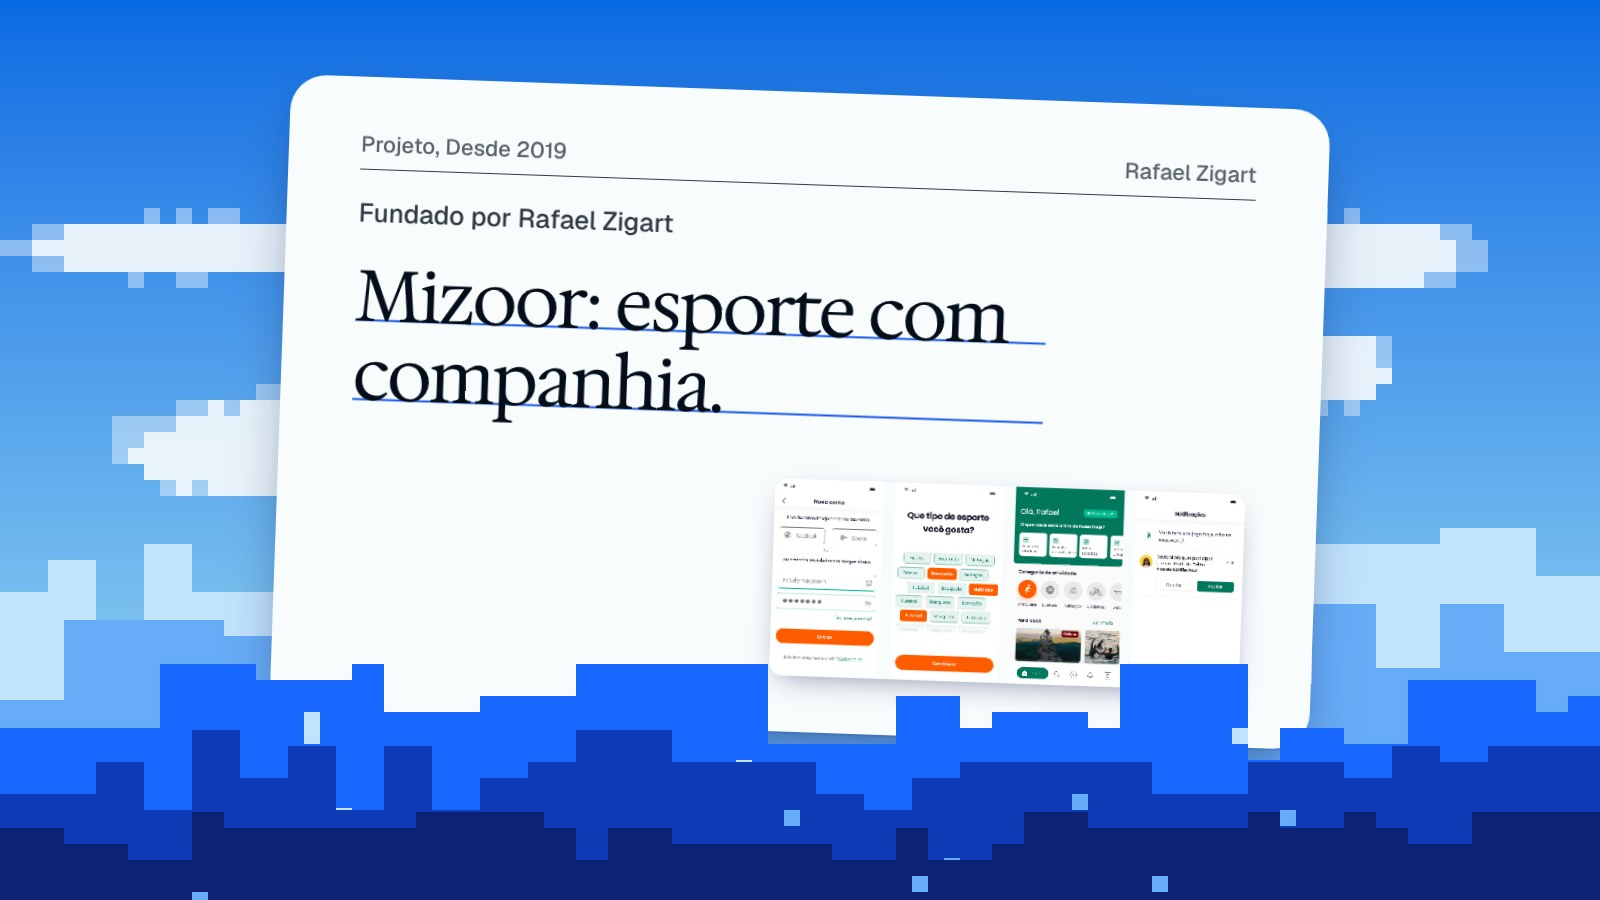
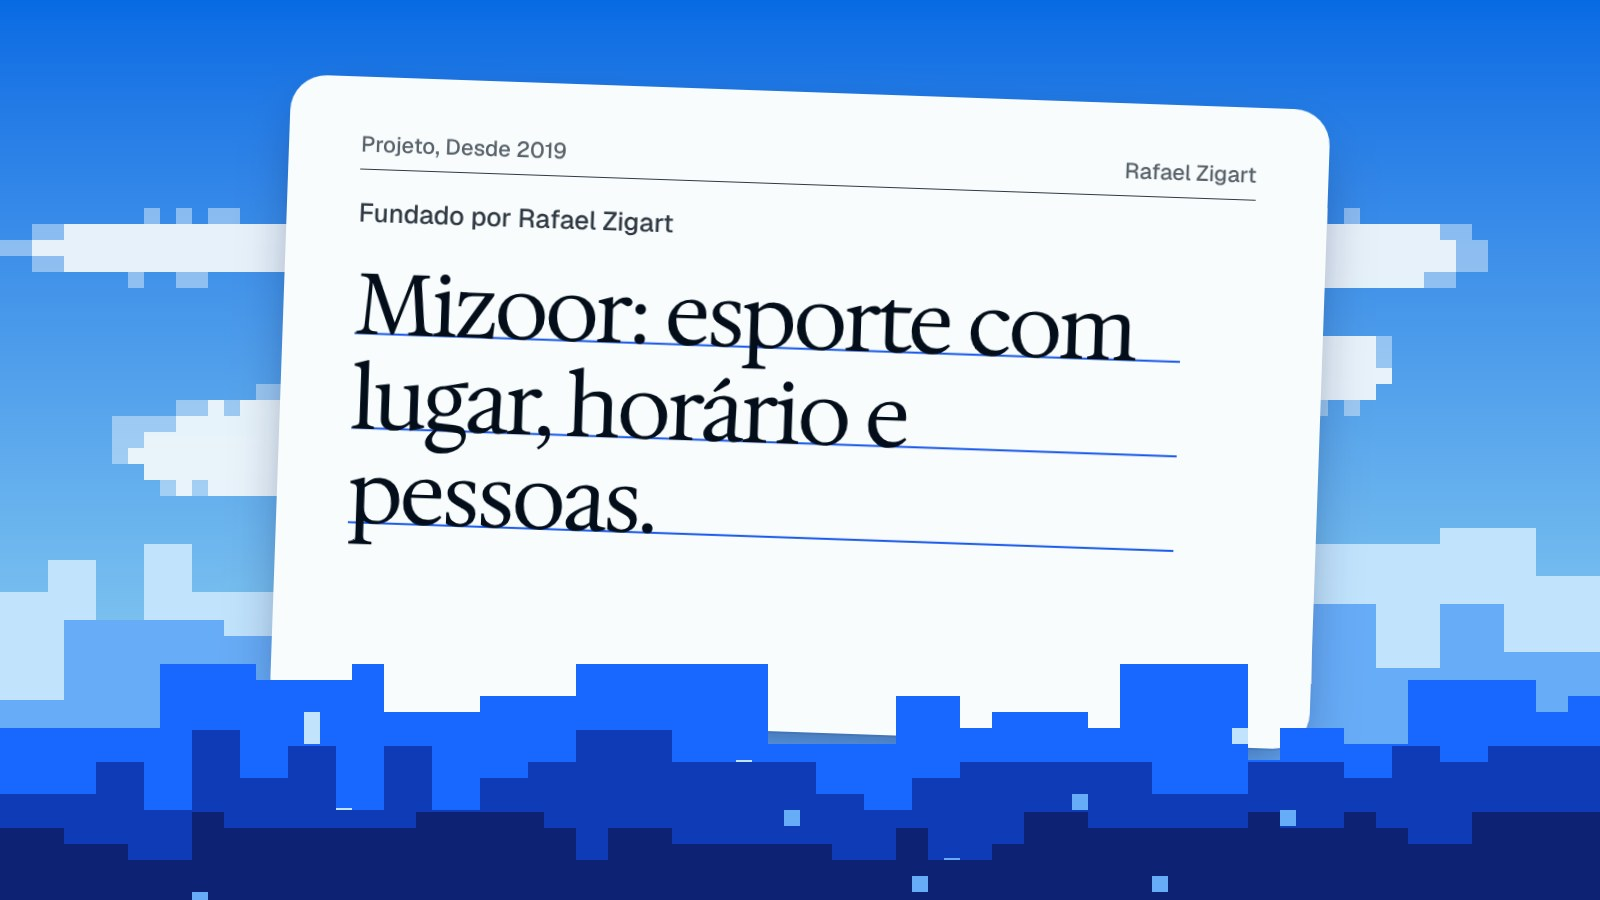
Mizoor: o produto real em primeiro lugar (#10)
Claude-Session: https://claude.ai/code/session_01RRVHz4eTtsGg1hUuv1ogdm

Changed region(s): [[0.2188, 0.28, 0.7812, 0.7778], [0.2188, 0.5289, 0.4062, 0.6222]]

diff --git a/mizoor.html b/mizoor.html
@@ -4,7 +4,7 @@
 <meta charset="utf-8">
 <meta name="viewport" content="width=device-width, initial-scale=1">
 <title>Mizoor, um projeto de Rafael Zigart</title>
-<meta name="description" content="Mizoor, o app fundado por Rafael Zigart para conectar quem quer praticar esporte coletivo e encontrar lugares para jogar: problema, personas, MVP, protótipo e plano.">
+<meta name="description" content="Mizoor, plataforma fundada por Rafael Zigart que conecta pessoas para praticar esportes e reúne ferramentas para organizar atividades e gerir profissionais e centros esportivos.">
 <link rel="icon" href="favicon.svg" type="image/svg+xml">
 <link rel="canonical" href="https://rafaelribeirozigart.github.io/zigart.com/mizoor.html">
 <meta name="author" content="Rafael Zigart">
@@ -12,13 +12,13 @@
 <meta property="og:site_name" content="Rafael Zigart">
 <meta property="og:locale" content="pt_BR">
 <meta property="og:title" content="Mizoor, um projeto de Rafael Zigart">
-<meta property="og:description" content="Mizoor, o app fundado por Rafael Zigart para conectar quem quer praticar esporte coletivo e encontrar lugares para jogar: problema, personas, MVP, protótipo e plano.">
+<meta property="og:description" content="Mizoor, plataforma fundada por Rafael Zigart que conecta pessoas para praticar esportes e reúne ferramentas para organizar atividades e gerir profissionais e centros esportivos.">
 <meta property="og:url" content="https://rafaelribeirozigart.github.io/zigart.com/mizoor.html">
 <meta property="og:image" content="https://rafaelribeirozigart.github.io/zigart.com/images/blog/og-mizoor.jpg">
 <meta property="og:image:width" content="1600">
 <meta property="og:image:height" content="900">
 <meta name="twitter:card" content="summary_large_image">
-<script type="application/ld+json">{"@context": "https://schema.org", "@type": "CreativeWork", "name": "Mizoor", "url": "https://www.mizoor.com.br/", "creator": {"@type": "Person", "name": "Rafael Zigart", "url": "https://rafaelribeirozigart.github.io/zigart.com/"}, "dateCreated": "2019", "about": "App para conectar pessoas que querem praticar esportes coletivos e encontrar espaços públicos para jogar", "inLanguage": "pt-BR"}</script>
+<script type="application/ld+json">{"@context": "https://schema.org", "@type": "CreativeWork", "name": "Mizoor", "url": "https://www.mizoor.com.br/", "creator": {"@type": "Person", "name": "Rafael Zigart", "url": "https://rafaelribeirozigart.github.io/zigart.com/"}, "dateCreated": "2019", "about": "Plataforma que conecta pessoas para praticar esportes e reúne ferramentas para organizar atividades e gerir profissionais e centros esportivos", "inLanguage": "pt-BR"}</script>
 <link rel="preconnect" href="https://fonts.googleapis.com">
 <link rel="preconnect" href="https://fonts.gstatic.com" crossorigin>
 <link href="https://fonts.googleapis.com/css2?family=Hedvig+Letters+Serif:opsz@12..24&family=Geist:wght@400;500&display=swap" rel="stylesheet">
@@ -45,97 +45,113 @@
   <section class="page-hero proof" aria-labelledby="page-title">
     <div class="container mz-hero">
       <h1 id="page-title">Mizoor.</h1>
-      <p class="lead">Um app para quem quer praticar esporte, mas não tem com quem nem onde. Fundei com mais três sócios em 2019.</p>
+      <p class="lead">Transforma a vontade de praticar esporte numa atividade com lugar, horário e pessoas.</p>
       <div class="actions">
-        <a class="btn btn--primary crop" href="https://www.mizoor.com.br/">Visitar mizoor.com.br</a>
-        <a class="link" href="carreira.html#c4">Ver na minha carreira</a>
+        <a class="btn btn--primary crop" href="https://www.mizoor.com.br/">Abrir o Mizoor</a>
+        <a class="link" href="#comeco">Como começou</a>
       </div>
     </div>
   </section>
 
-  <section class="section section--s" aria-labelledby="mz-problem">
+  <section class="section section--s" aria-labelledby="mz-fronts">
     <div class="container">
-      <div class="head"><h2 id="mz-problem">O problema é tempo e companhia.</h2></div>
-      <dl class="mz-figs">
-        <div><dt>69,8%</dt><dd>abandonam o esporte por falta de tempo ou outras prioridades</dd><dd class="mz-src">Ministério do Esporte, pesquisa de 2013</dd></div>
-        <div><dt>53%</dt><dd>dos brasileiros gostariam de praticar mais esportes</dd><dd class="mz-src">Ipsos, via CNN Brasil</dd></div>
-        <div><dt>US$ 2,1 bi</dt><dd>movimentados pelo mercado de atividade física no Brasil</dd><dd class="mz-src">VocêRH</dd></div>
-      </dl>
-    </div>
-  </section>
-
-  <section class="section band" aria-labelledby="mz-personas">
-    <div class="container">
-      <div class="head"><h2 id="mz-personas">Quatro pessoas que conhecemos bem.</h2><p class="mz-note">Saídas do mapa de empatia. O MVP mira as três primeiras.</p></div>
-      <ul class="mz-personas">
-        <li class="crop"><span class="mz-n">1</span><h3>Travoltinha do esporte</h3><p>Não sabe por onde começar.</p></li>
-        <li class="crop"><span class="mz-n">2</span><h3>Forever alone</h3><p>Quer praticar, mas não tem com quem.</p></li>
-        <li class="crop"><span class="mz-n">3</span><h3>Eterno promessinha</h3><p>Sempre vai começar na segunda.</p></li>
-        <li class="crop mz-off"><span class="mz-n">4</span><h3>Amante da endorfina</h3><p>Quer se mexer a toda hora, em todo lugar.</p></li>
+      <div class="head"><h2 id="mz-fronts">Três frentes num lugar só.</h2><p class="mz-note">Não é só um catálogo de quadras, nem só uma rede social.</p></div>
+      <ul class="mz-personas mz-personas--3">
+        <li class="crop"><span class="mz-n">1</span><h3>Comunidade e organização</h3><p>Atividades, participantes, perfis, avaliações e conversas.</p></li>
+        <li class="crop"><span class="mz-n">2</span><h3>Descoberta e acesso</h3><p>Esportes, mapa, locais públicos, centros e profissionais.</p></li>
+        <li class="crop"><span class="mz-n">3</span><h3>Gestão</h3><p>Agenda, reservas, turmas, clientes e equipe para parceiros.</p></li>
       </ul>
     </div>
   </section>
 
-  <section class="section" aria-labelledby="mz-solution">
+  <section class="section band" aria-labelledby="mz-create">
+    <div class="container">
+      <div class="head"><h2 id="mz-create">Criar um jogo em cinco etapas.</h2><p class="mz-note">O assistente salva rascunho sozinho e mostra a prévia enquanto você preenche.</p></div>
+      <ol class="mz-steps">
+        <li><h3>Qual esporte?</h3><p>Futevôlei, beach tennis, padel, corrida e outros.</p></li>
+        <li><h3>Detalhes</h3><p>Nome, descrição e o que esperar do encontro.</p></li>
+        <li><h3>Quando e onde</h3><p>Data, horário e local no mapa.</p></li>
+        <li><h3>Participantes</h3><p>Vagas, valor, aprovação e privacidade.</p></li>
+        <li><h3>Visual</h3><p>Uma imagem para o convite, se quiser.</p></li>
+      </ol>
+      <p class="mz-after">Depois é compartilhar por WhatsApp, email ou link, acompanhar quem vai e fazer check-in por QR code no dia.</p>
+    </div>
+  </section>
+
+  <section class="section" aria-labelledby="mz-who">
+    <div class="container">
+      <div class="head"><h2 id="mz-who">Para quem é.</h2></div>
+      <table class="table mz-table">
+        <thead><tr><th scope="col">Quem</th><th scope="col">O que faz no Mizoor</th></tr></thead>
+        <tbody>
+          <tr><td>Atleta</td><td>Descobre jogos perto de casa, entra em atividades e conversa com o grupo.</td></tr>
+          <tr><td>Organizador</td><td>Publica o encontro, aprova participantes e cuida do dia.</td></tr>
+          <tr><td>Profissional</td><td>Mostra credenciais, atende alunos e monta fichas de treino.</td></tr>
+          <tr><td>Centro esportivo</td><td>Divulga espaços e administra reservas, turmas e clientes.</td></tr>
+        </tbody>
+      </table>
+    </div>
+  </section>
+
+  <section class="section section--s band" aria-labelledby="mz-partners">
     <div class="container mz-split">
       <div class="mz-split__text">
-        <h2 id="mz-solution">Uma comunidade fora da academia.</h2>
-        <p class="lead">O app conecta quem quer se exercitar e mostra, num mapa atualizado pelos próprios usuários, as quadras, praças e praias onde dá para jogar.</p>
-        <p class="mz-note">O foco é pertencimento, não performance.</p>
+        <h2 id="mz-partners">Uma área de gestão para parceiros.</h2>
+        <p class="lead">Profissionais e centros passam por verificação em níveis e ganham ferramentas para operar.</p>
       </div>
       <div class="mz-sides">
-        <div class="mz-side crop"><p class="mz-side__h">Para quem pratica</p><ul><li>Encontrar companhia no mesmo nível</li><li>Achar lugares para jogar perto de casa</li><li>Sair do digital para o encontro de verdade</li></ul></div>
-        <div class="mz-side crop"><p class="mz-side__h">Para patrocinadores</p><ul><li>Audiência esportiva qualificada</li><li>Iniciantes e intermediários</li><li>Dados usados de acordo com a LGPD</li></ul></div>
+        <div class="mz-side crop"><p class="mz-side__h">Operação</p><ul><li>Calendário, reservas e disponibilidade</li><li>Turmas e presença</li><li>Equipe com permissões</li></ul></div>
+        <div class="mz-side crop"><p class="mz-side__h">Relacionamento e treino</p><ul><li>CRM de clientes e alunos</li><li>Avaliações e fichas de treino</li><li>Indicadores de ocupação e conversão</li></ul></div>
       </div>
     </div>
   </section>
 
-  <section class="section section--s band" aria-labelledby="mz-mvp">
+  <section class="section" aria-labelledby="mz-prices">
     <div class="container">
-      <div class="head"><h2 id="mz-mvp">O MVP, priorizado.</h2><p class="mz-note">Método MoSCoW. Escolha um grupo.</p></div>
-      <div class="mz-switch" data-switch-mz>
-        <div class="seg mz-tabs" role="tablist" aria-label="Prioridade">
-          <button type="button" role="tab" id="t-must" aria-controls="p-must" aria-selected="true">Deve ter</button>
-          <button type="button" role="tab" id="t-should" aria-controls="p-should" aria-selected="false" tabindex="-1">Deveria ter</button>
-          <button type="button" role="tab" id="t-could" aria-controls="p-could" aria-selected="false" tabindex="-1">Poderia ter</button>
-          <button type="button" role="tab" id="t-wont" aria-controls="p-wont" aria-selected="false" tabindex="-1">Por enquanto não</button>
-        </div>
-        <ul class="mz-list" role="tabpanel" id="p-must" aria-labelledby="t-must"><li>Cadastro, login e perfil</li><li>Comunidades e chat da atividade</li><li>Criar, listar e convidar para atividades, com histórico</li><li>Mapa de espaços e geolocalização</li><li>Pedido de cadastro de novo local</li><li>Notificações</li></ul>
-        <ul class="mz-list" role="tabpanel" id="p-should" aria-labelledby="t-should"><li>Filtro de busca</li><li>Avaliação de usuário e de atividade</li><li>Recomendações</li></ul>
-        <ul class="mz-list" role="tabpanel" id="p-could" aria-labelledby="t-could"><li>Ranking dos esportes mais praticados</li><li>Régua de evolução e progresso compartilhado</li><li>Personal trainer</li></ul>
-        <ul class="mz-list" role="tabpanel" id="p-wont" aria-labelledby="t-wont"><li>Gamificação</li><li>Marketplace</li><li>Encontrar amigos das redes sociais</li><li>Clube de benefícios</li></ul>
-      </div>
-    </div>
-  </section>
-
-  <section class="section" aria-labelledby="mz-proto">
-    <div class="container mz-split mz-split--r">
-      <figure class="mz-proto crop"><img src="images/mizoor-prototipo.png" width="576" height="242" alt="Quatro telas do protótipo do Mizoor: cadastro, escolha de esportes, início com categorias de atividade e notificações" loading="lazy"><figcaption>Protótipo no Figma: cadastro, esportes favoritos, início e convites.</figcaption></figure>
-      <div class="mz-split__text">
-        <h2 id="mz-proto">Do protótipo ao app.</h2>
-        <dl class="facts">
-          <dt>App</dt><dd>React Native, com versão web em React</dd>
-          <dt>Back-end</dt><dd>PHP e MySQL</dd>
-          <dt>Plano</dt><dd>5 meses, 10 sprints de Scrum</dd>
-        </dl>
-        <a class="link" href="https://www.figma.com/file/56lFESHmHbFbTNLoTcI6la/?node-id=0%3A1">Ver todas as telas no Figma</a>
-      </div>
-    </div>
-  </section>
-
-  <section class="section section--s" aria-labelledby="mz-plan">
-    <div class="container">
-      <div class="head"><h2 id="mz-plan">O plano para dois anos.</h2><p class="mz-note">Projeções do plano de negócio, começando por São Paulo. Metas, não resultados.</p></div>
-      <dl class="mz-figs mz-figs--4 fig--nums">
-        <div><dt>100 mil</dt><dd>usuários na meta do primeiro ano</dd></div>
-        <div><dt>220 mil</dt><dd>usuários projetados em dois anos</dd></div>
-        <div><dt>R$ 5,6 mi</dt><dd>de receita com cotas de patrocínio</dd></div>
-        <div><dt>1,45</dt><dd>anos para o break-even</dd></div>
+      <div class="head"><h2 id="mz-prices">Grátis para quem joga.</h2><p class="mz-note">Planos da página de tarifas. Mensalidade para parceiros, sem comissão por reserva.</p></div>
+      <dl class="mz-figs mz-figs--4 mz-prices">
+        <div><dt>Grátis</dt><dd>Atletas</dd></div>
+        <div><dt>R$ 49</dt><dd>por mês, profissional Pro. O Básico é grátis.</dd></div>
+        <div><dt>R$ 99</dt><dd>por mês, centro esportivo Starter</dd></div>
+        <div><dt>R$ 199</dt><dd>por mês, centro esportivo Business</dd></div>
       </dl>
     </div>
   </section>
 
-  <section class="section band" aria-labelledby="mz-team">
+  <section class="section section--s band" aria-labelledby="mz-stack">
+    <div class="container mz-split">
+      <div class="mz-split__text">
+        <h2 id="mz-stack">Como é feito.</h2>
+        <p class="lead">Uma aplicação web com tempo real, mapas e áreas separadas para atleta, parceiro e administração.</p>
+      </div>
+      <ul class="chips mz-chips"><li>React 18</li><li>TypeScript</li><li>Vite</li><li>Supabase</li><li>Edge Functions</li><li>Tailwind CSS</li><li>shadcn/ui</li><li>MapLibre</li><li>React Query</li></ul>
+    </div>
+  </section>
+
+  <section class="section" id="comeco" aria-labelledby="mz-origin">
+    <div class="container">
+      <div class="head"><h2 id="mz-origin">Começou como plano de MBA.</h2><p class="mz-note">Em 2019, com mais três sócios.</p></div>
+      <dl class="mz-figs">
+        <div><dt>69,8%</dt><dd>abandonam o esporte por falta de tempo</dd><dd class="mz-src">Ministério do Esporte, pesquisa de 2013</dd></div>
+        <div><dt>53%</dt><dd>dos brasileiros querem praticar mais</dd><dd class="mz-src">Ipsos, via CNN Brasil</dd></div>
+        <div><dt>US$ 2,1 bi</dt><dd>no mercado de atividade física</dd><dd class="mz-src">VocêRH</dd></div>
+      </dl>
+    </div>
+  </section>
+
+  <section class="section section--s band" aria-labelledby="mz-personas">
+    <div class="container">
+      <div class="head"><h2 id="mz-personas">As personas do primeiro MVP.</h2></div>
+      <ul class="mz-personas">
+        <li class="crop"><h3>Travoltinha do esporte</h3><p>Não sabe por onde começar.</p></li>
+        <li class="crop"><h3>Forever alone</h3><p>Quer praticar, mas não tem com quem.</p></li>
+        <li class="crop"><h3>Eterno promessinha</h3><p>Sempre vai começar na segunda.</p></li>
+        <li class="crop"><h3>Amante da endorfina</h3><p>Quer se mexer a toda hora, em todo lugar.</p></li>
+      </ul>
+    </div>
+  </section>
+
+  <section class="section" aria-labelledby="mz-team">
     <div class="container">
       <div class="head"><h2 id="mz-team">Quatro sócios.</h2></div>
       <ul class="mz-team">
@@ -157,13 +173,5 @@
     </div>
   </div>
 </footer>
-<script>
-document.querySelectorAll('[data-switch-mz]').forEach((root) => {
-  const tabs = [...root.querySelectorAll('[role="tab"]')];
-  const pick = (t, focus) => { tabs.forEach((x) => { const on = x === t; x.setAttribute('aria-selected', on); x.tabIndex = on ? 0 : -1; document.getElementById(x.getAttribute('aria-controls')).hidden = !on; }); if (focus) t.focus(); };
-  tabs.forEach((t, i) => { t.addEventListener('click', () => pick(t)); t.addEventListener('keydown', (e) => { const d = { ArrowRight: 1, ArrowLeft: -1 }[e.key]; if (d) { e.preventDefault(); pick(tabs[(i + d + tabs.length) % tabs.length], true); } }); });
-  pick(tabs[0]);
-});
-</script>
 </body>
 </html>

diff --git a/css/site.css b/css/site.css
@@ -7,6 +7,7 @@
 /* Hallmark · dismissed 25 · .words__text is a one-sentence statement at section size, not running prose; 28ch keeps it to four lines */
 /* Hallmark · dismissed F7 · every printed piece is the same paper sheet by the Studio theme rule: one shadow, for paper objects only */
 /* Hallmark · dismissed 23 · the curtain accent is a 1px baseline rule drawn by a gradient sized 100% x 1px, not a fill */
+/* Hallmark · dismissed 59 · mizoor.html is a case page with two chapters, the product today and how it began, each with its own sections */
 @import url("./tokens.css");
 @import url("./base.css");
 
@@ -616,3 +617,21 @@ html.is-entering::after { content: attr(data-curtain); background: var(--pixel-1
 @media (max-width: 40rem) { .mz-figs, .mz-figs--4, .mz-personas, .mz-team, .mz-list { grid-template-columns: minmax(0, 1fr); } .mz-personas li { min-height: 0; } }
 @media (prefers-reduced-motion: reduce) { .mz-tabs button { transition: none; } }
 .mz-figs--4 dt { font-size: var(--text-display-s); white-space: nowrap; }
+
+/* Mizoor, the product today */
+.mz-personas--3 { grid-template-columns: repeat(3, minmax(0, 1fr)); }
+.mz-steps { display: grid; grid-template-columns: repeat(5, minmax(0, 1fr)); gap: var(--gap-columns); margin: 0; padding: 0; list-style: none; counter-reset: mzs; border-top: var(--rule-hair) solid var(--color-ink); }
+.mz-steps li { counter-increment: mzs; display: grid; align-content: start; gap: var(--space-xs); padding-top: var(--space-lg); }
+.mz-steps li::before { content: counter(mzs); font: 400 var(--text-section)/1 var(--font-display); color: var(--color-accent); margin-bottom: var(--space-sm); }
+.mz-steps h3 { font-size: var(--text-title); }
+.mz-steps p { color: var(--color-ink-2); }
+.mz-after { margin-top: var(--space-2xl); max-width: 60ch; font: 400 var(--text-xl)/1.35 var(--font-display); color: var(--color-ink); }
+.mz-table td:first-child { width: 30%; }
+.mz-chips { grid-column: 7 / 13; gap: var(--space-sm); }
+.mz-chips li { font-size: var(--text-md); padding: var(--space-xs) var(--space-md); }
+.mz-prices dt { font-size: var(--text-display-s); }
+@media (max-width: 60rem) { .mz-steps { grid-template-columns: repeat(2, minmax(0, 1fr)); } .mz-personas--3 { grid-template-columns: minmax(0, 1fr); } }
+@media (max-width: 40rem) { .mz-steps { grid-template-columns: minmax(0, 1fr); } }
+.mz-table td:last-child { white-space: normal; text-align: start; }
+.mz-table th:last-child { text-align: start; }
+.mz-prices dt { font-variant-numeric: tabular-nums; }
